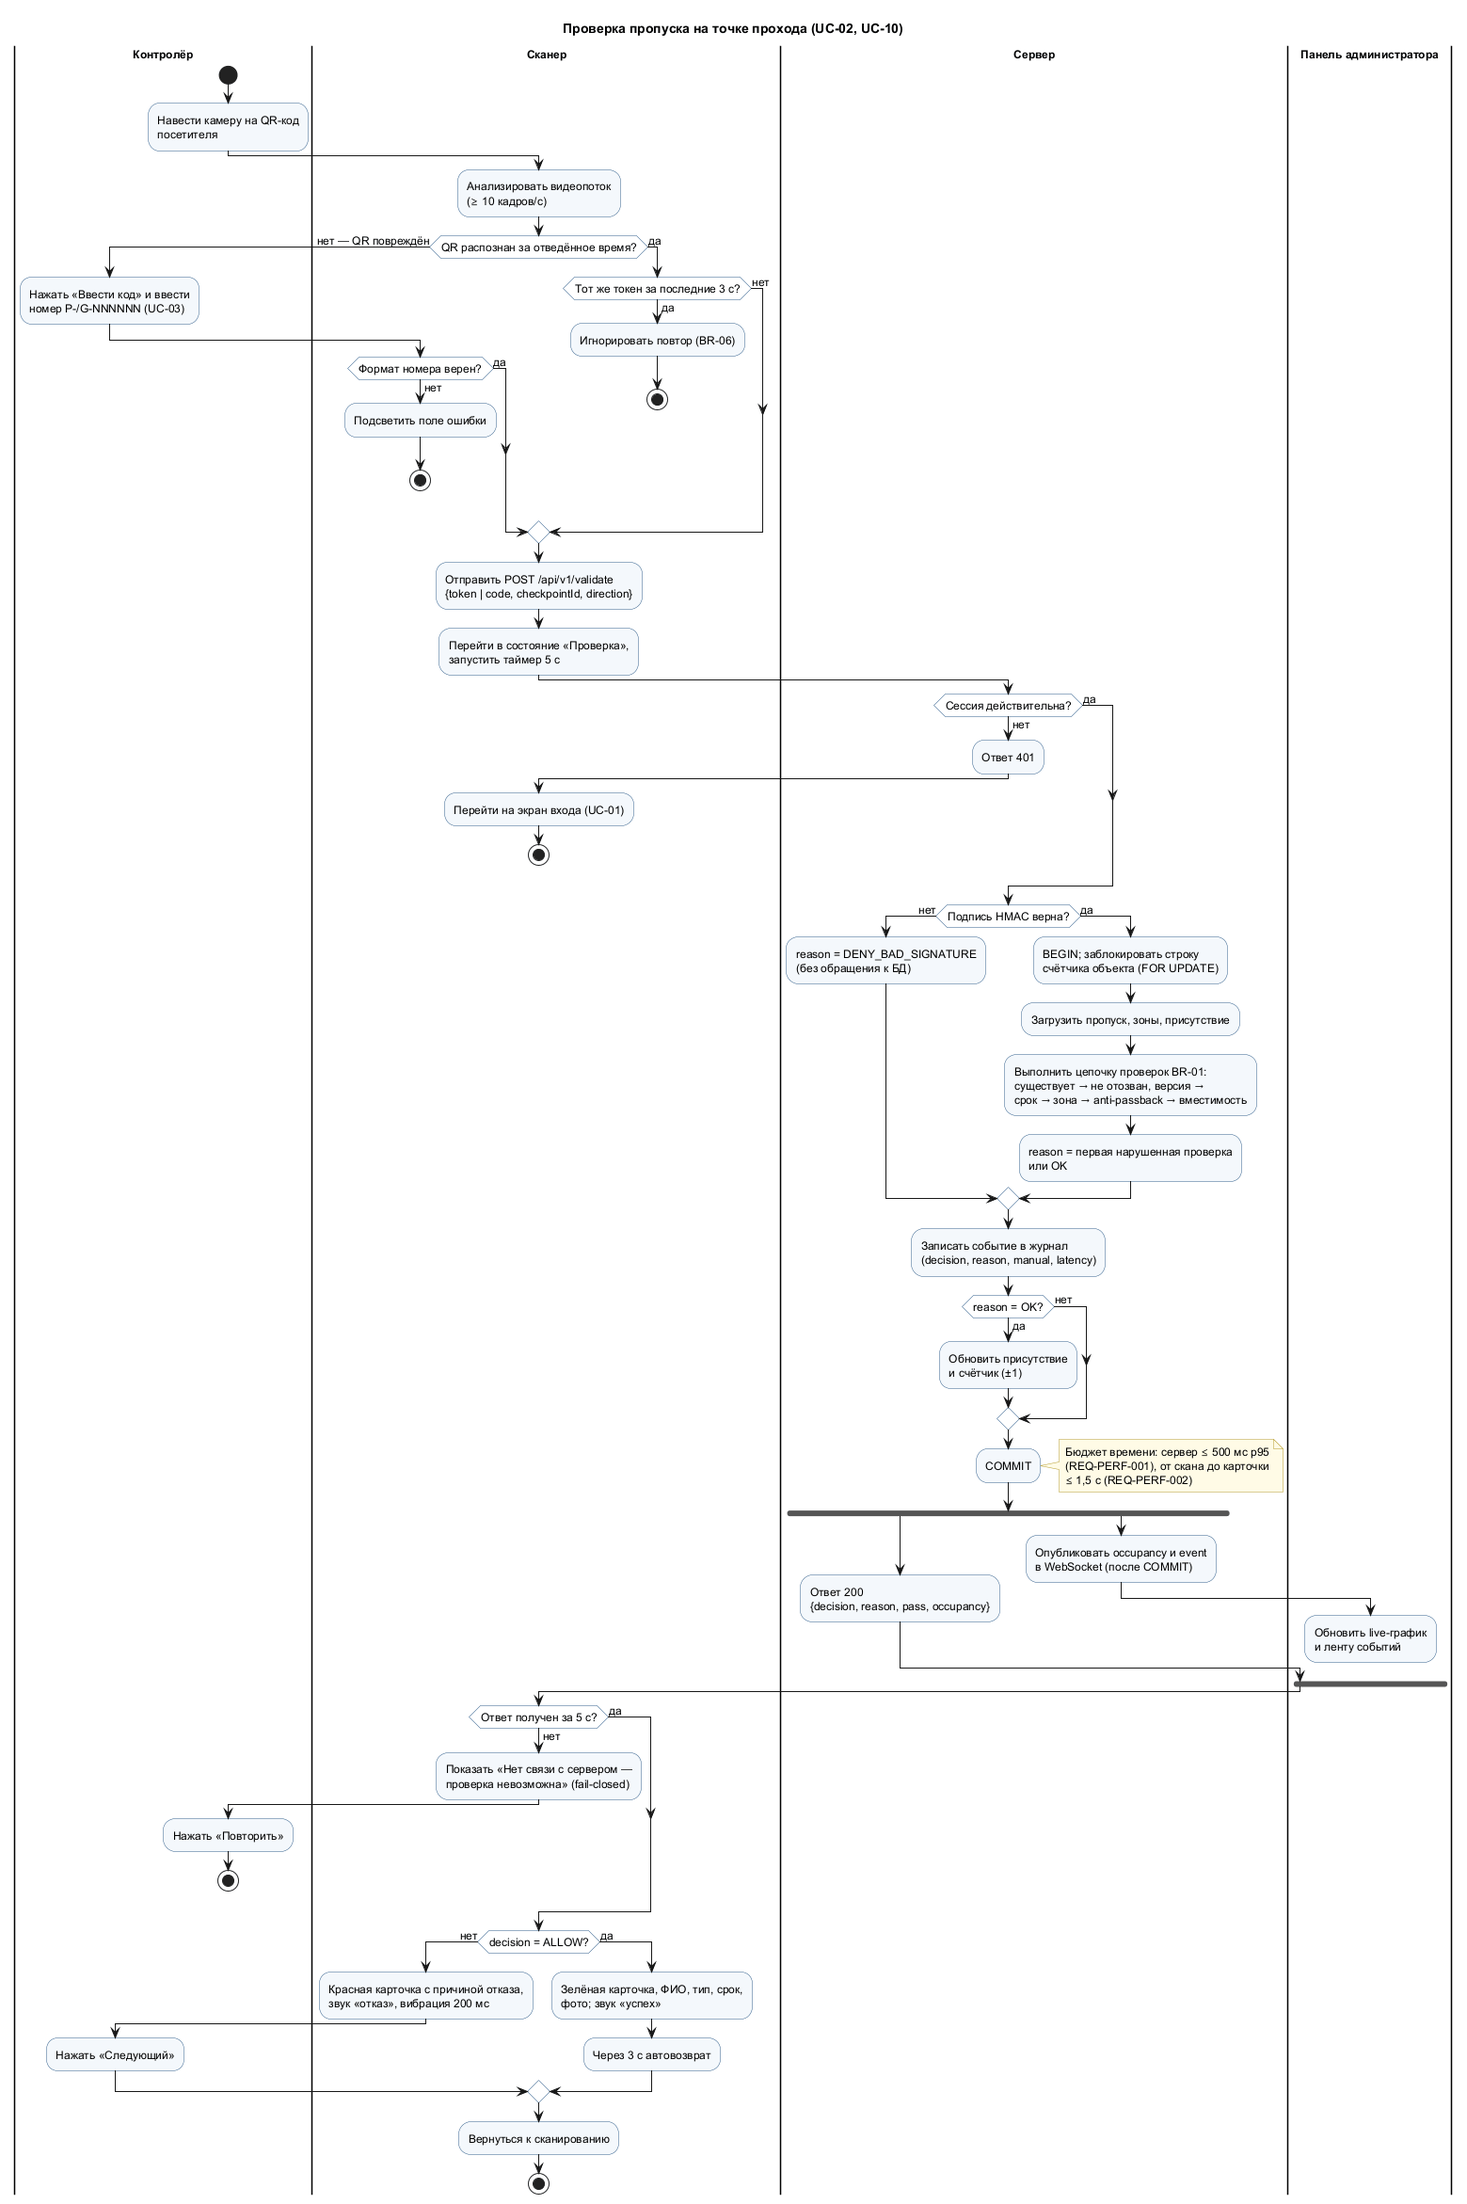
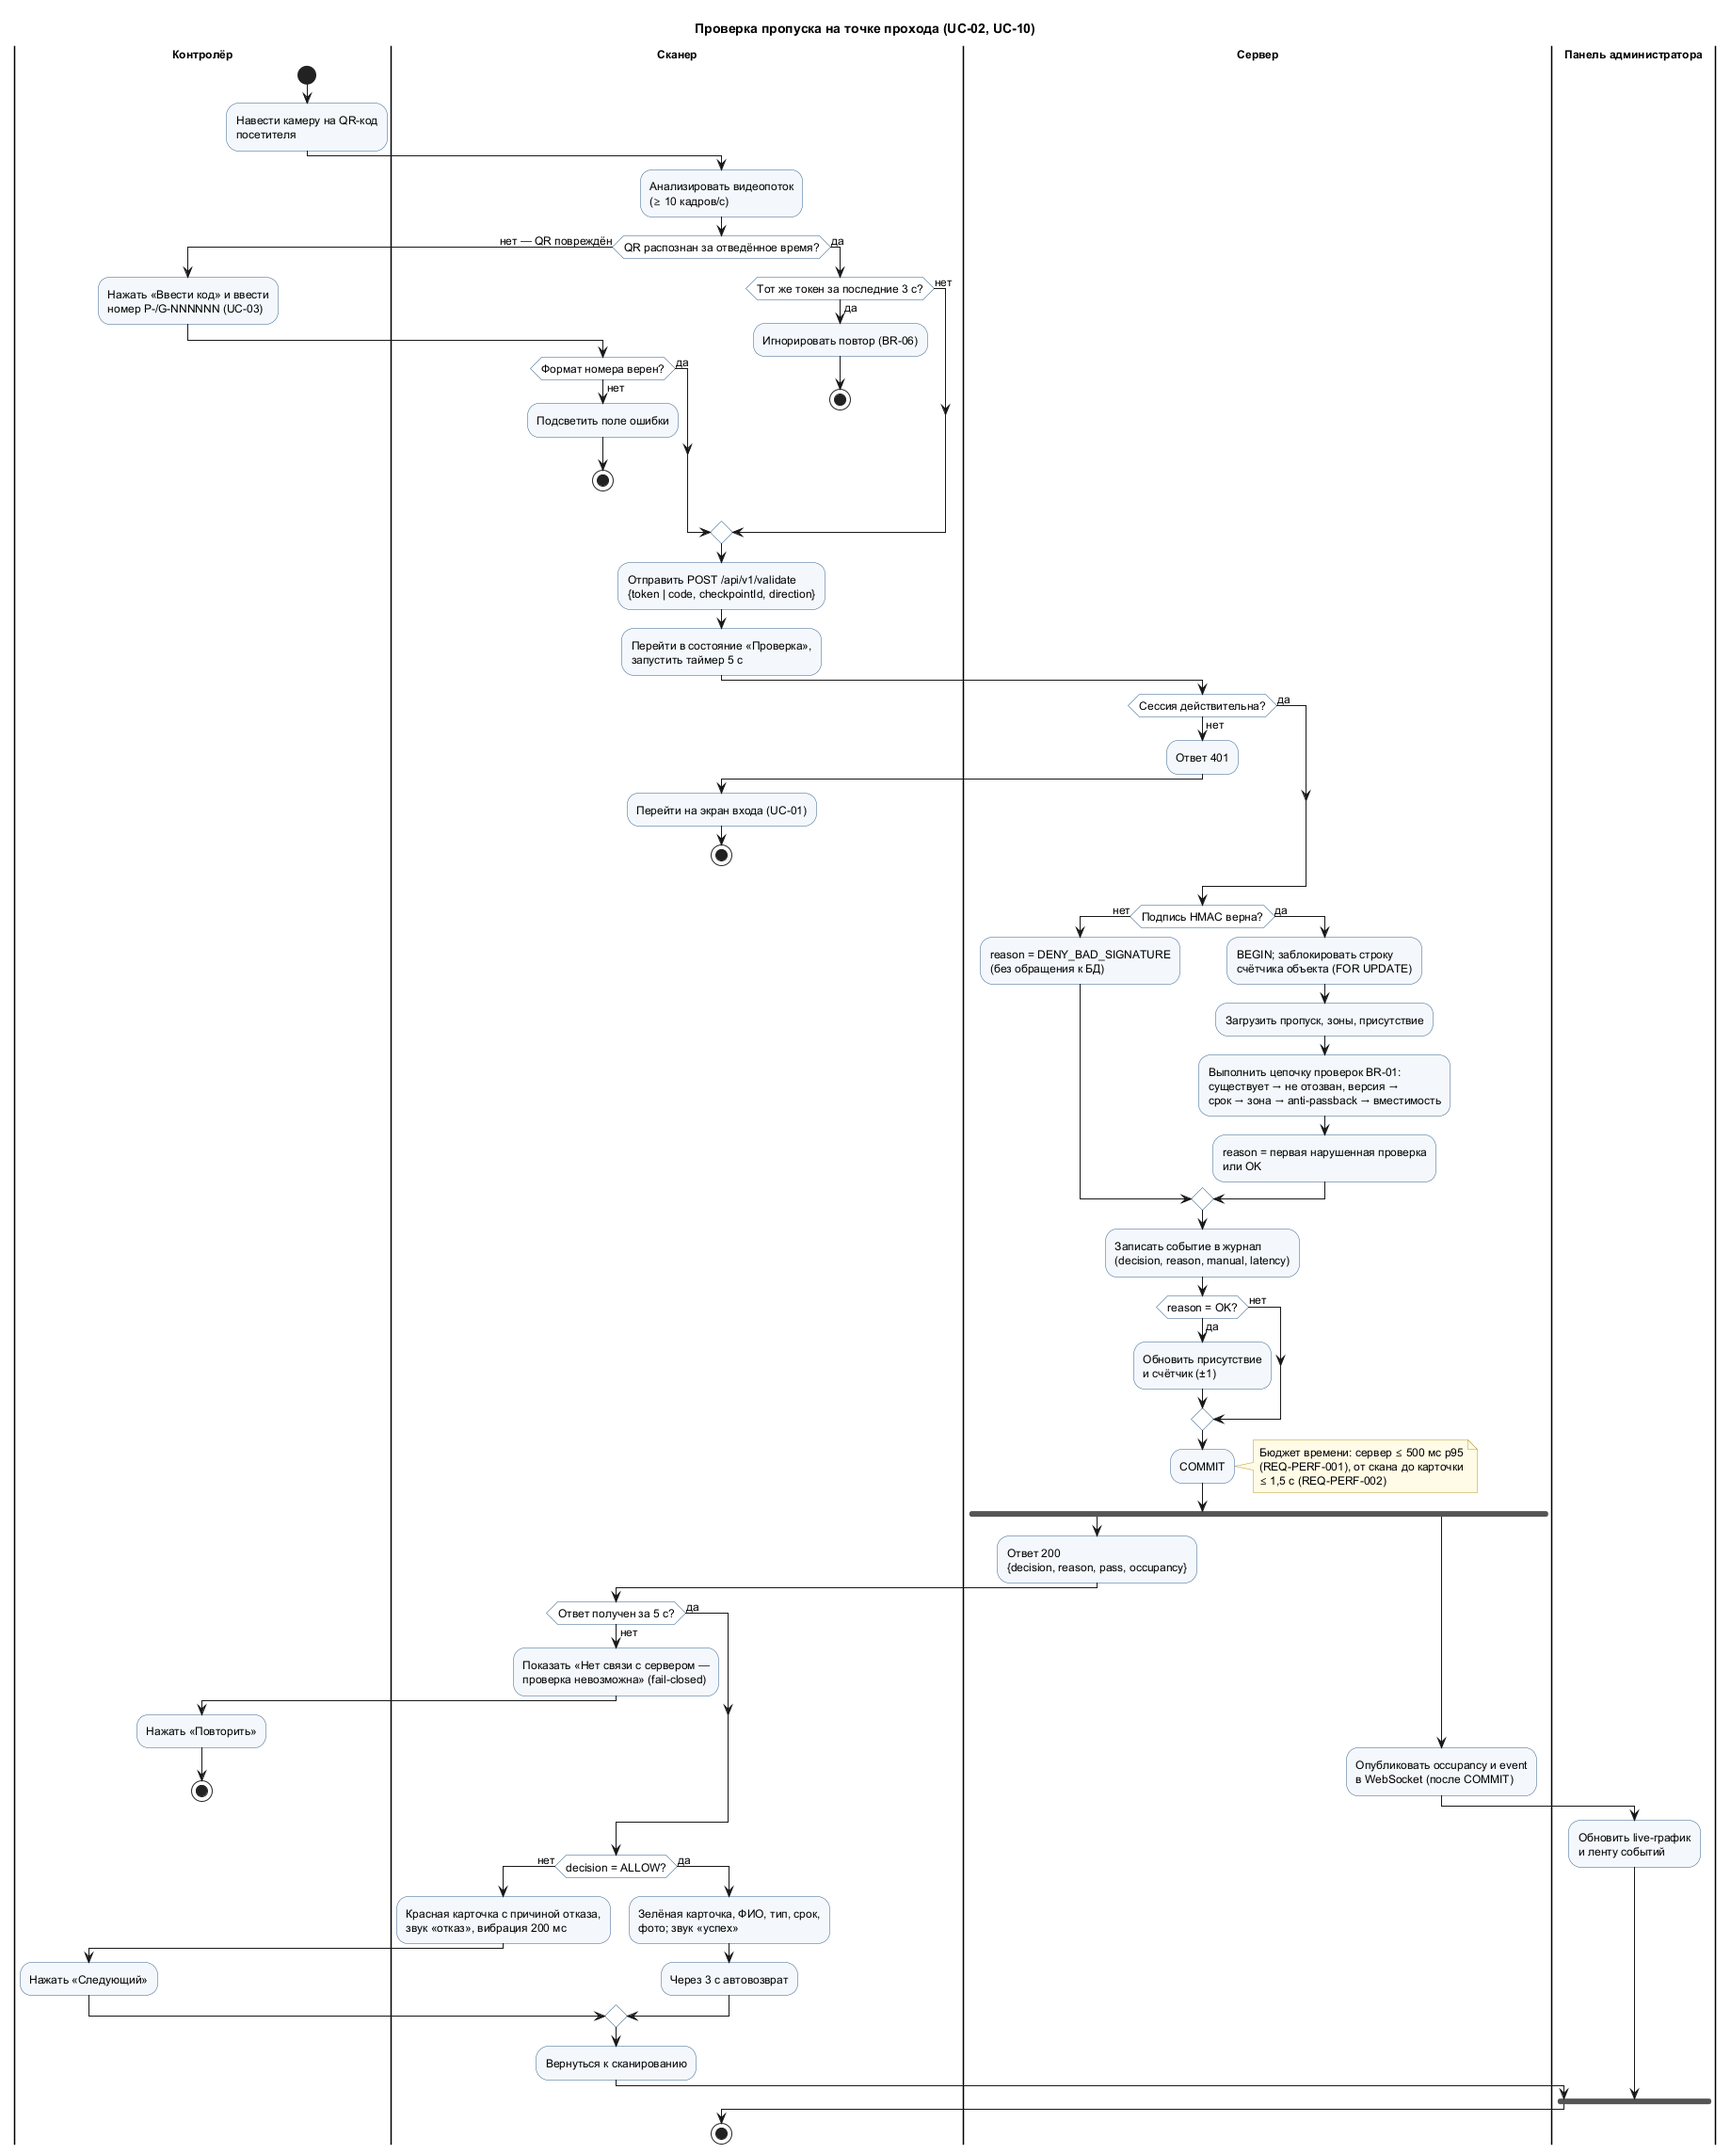
Activity diagram: join parallel flows before the final node instead of a dangling bar

diff --git a/sdd/sdd-qrgate.md b/sdd/sdd-qrgate.md
@@ -405,7 +405,7 @@ validate(token, checkpointId, direction, controller):
 
 *Рисунок 7 – Диаграмма активности проверки пропуска (UML, [`uml/models/activity-validate-pass.puml`](../uml/models/activity-validate-pass.puml))*
 
-- **Representation**: четыре дорожки (Контролёр, Сканер, Сервер, Панель администратора). Ветвления соответствуют альтернативным потокам UC-02/UC-03 (повтор токена, ручной ввод, неверная подпись, 401, тайм-аут); узел разветвления `fork` показывает, что ответ сканеру и публикация в WebSocket выполняются параллельно и только после COMMIT. Цепочка проверок раскрыта в представлении 008.
+- **Representation**: четыре дорожки (Контролёр, Сканер, Сервер, Панель администратора). Ветвления соответствуют альтернативным потокам UC-02/UC-03 (повтор токена, ручной ввод, неверная подпись, 401, тайм-аут); узел разветвления `fork` показывает, что ответ сканеру и публикация в WebSocket выполняются параллельно и только после COMMIT. Оба потока сходятся в узле соединения `join`, после которого активность завершается. Цепочка проверок раскрыта в представлении 008.
 - **More Information**: ADR-0003, ADR-0004, ADR-0006; UC-02, UC-03, UC-10; REQ-FUNC-004, REQ-REL-001, 002.
 
 ### 015-import-activity
